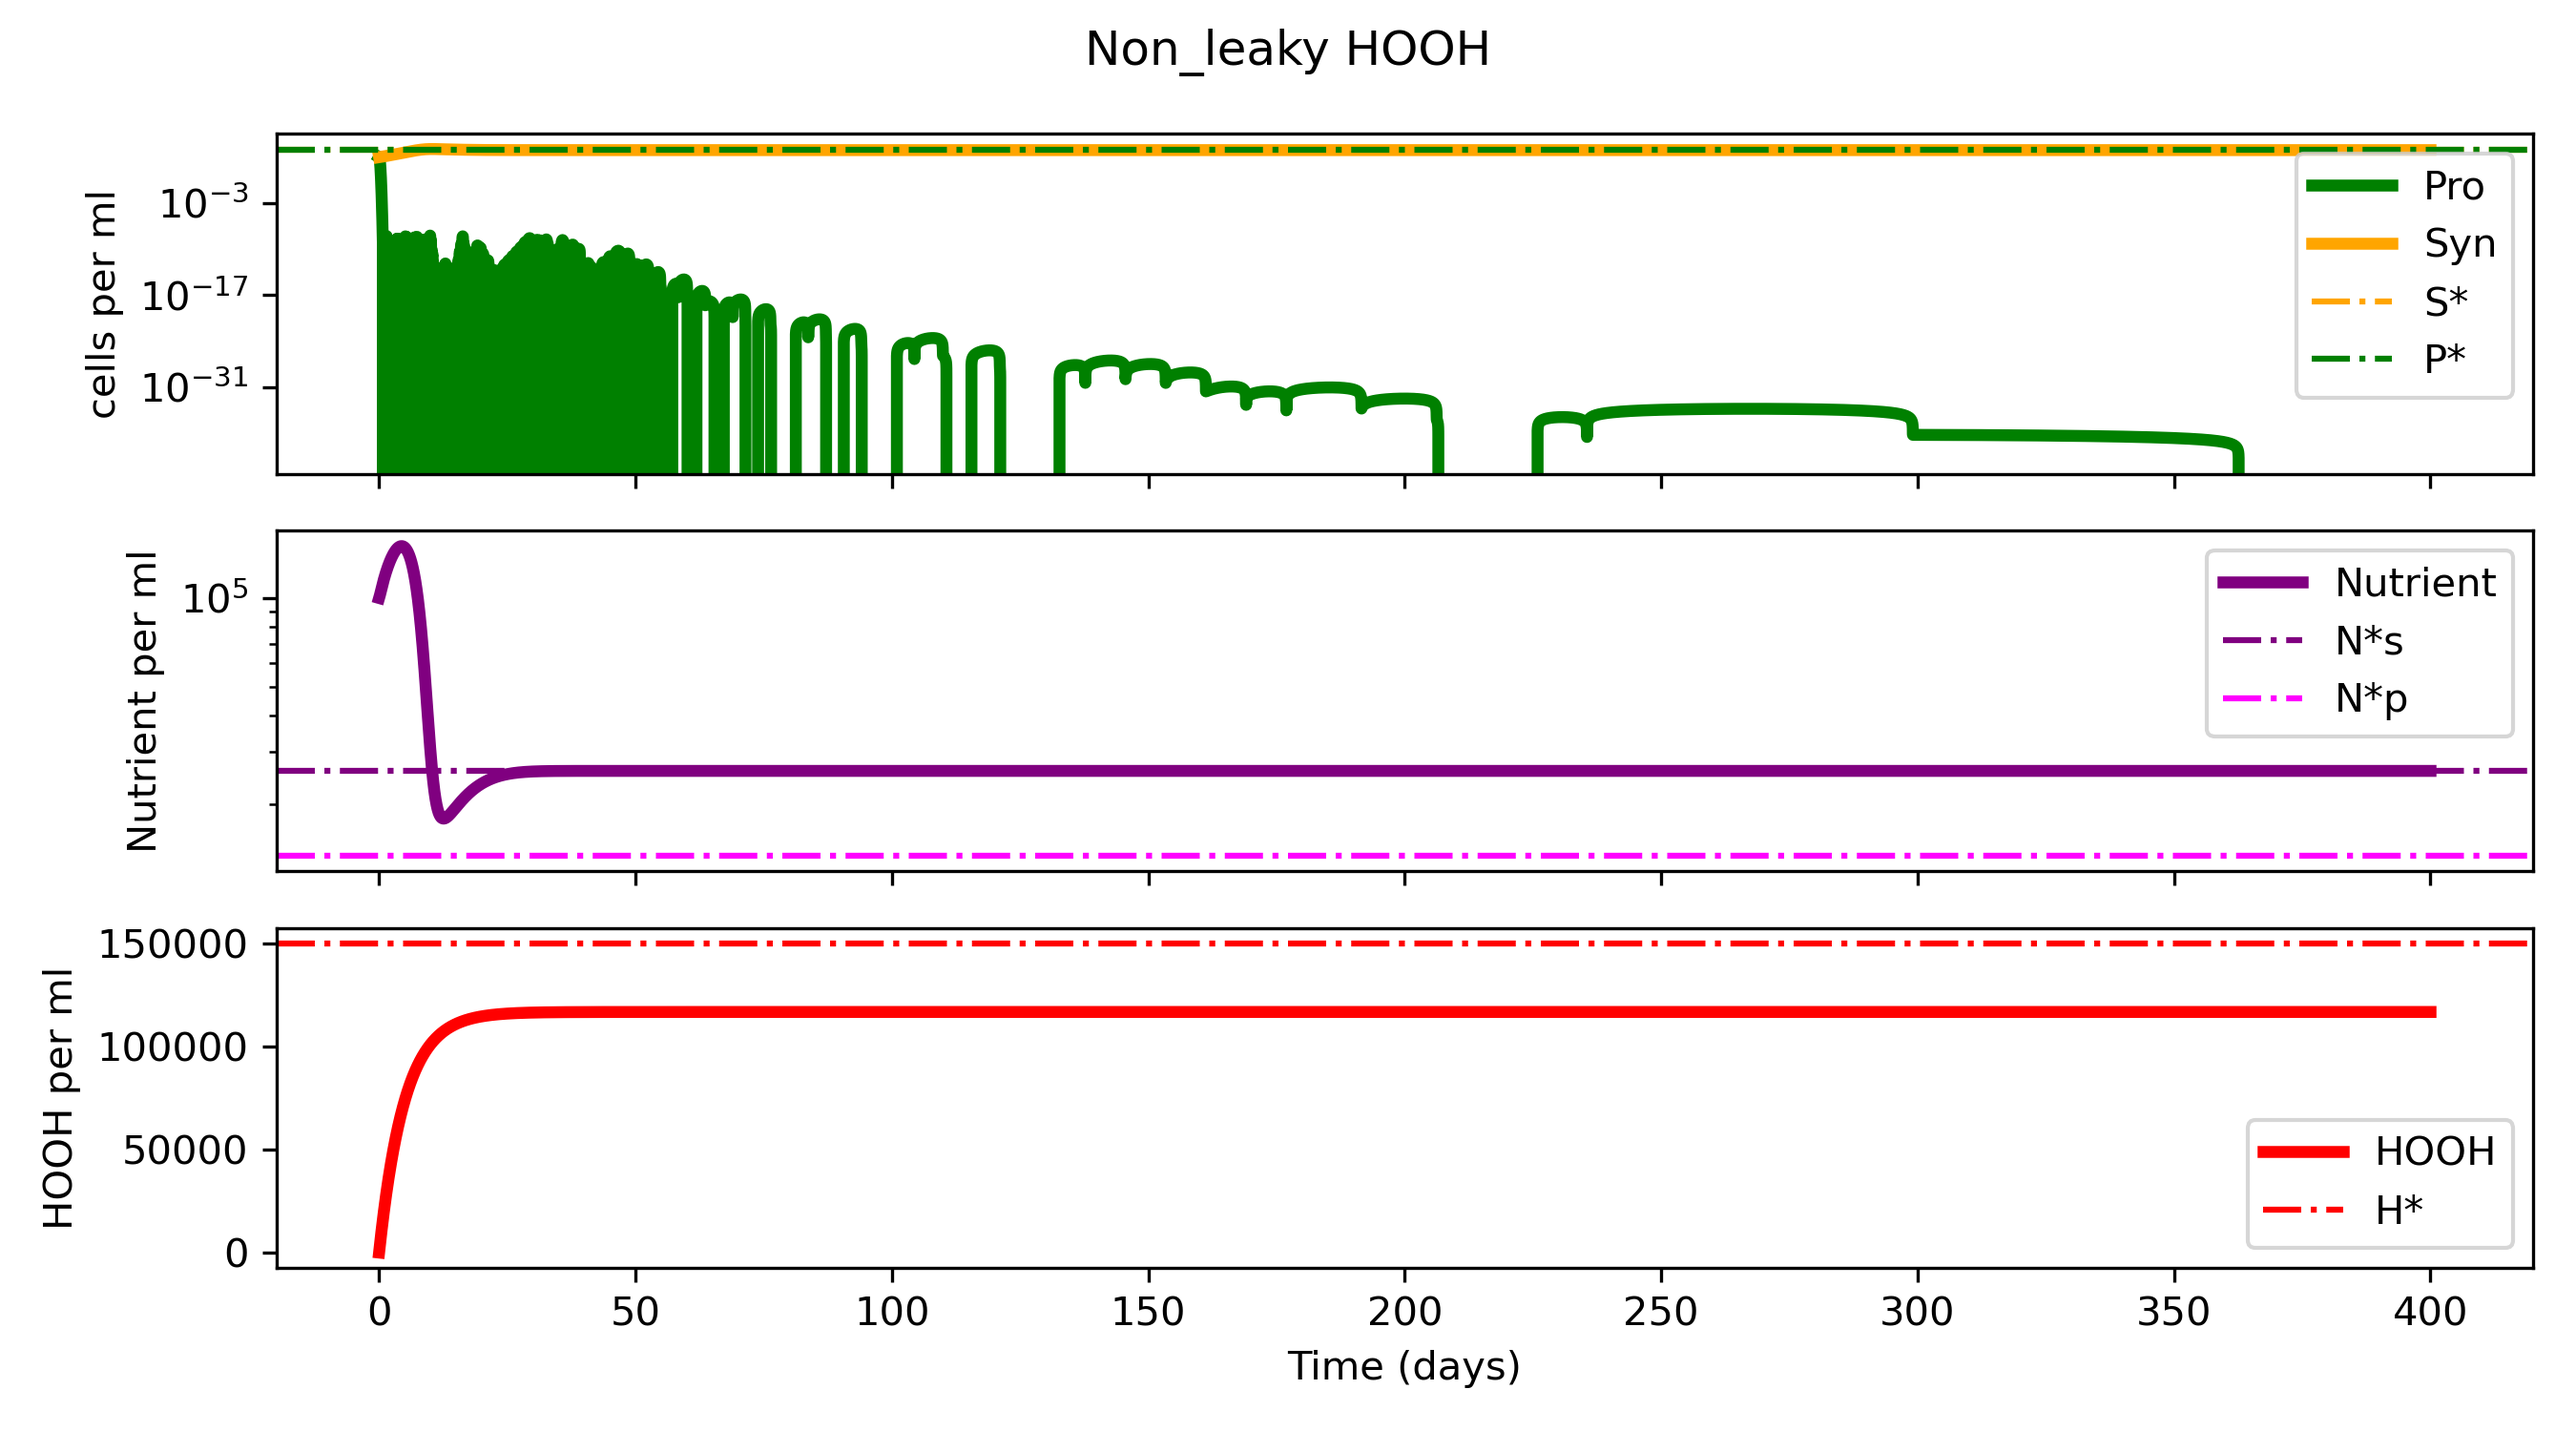
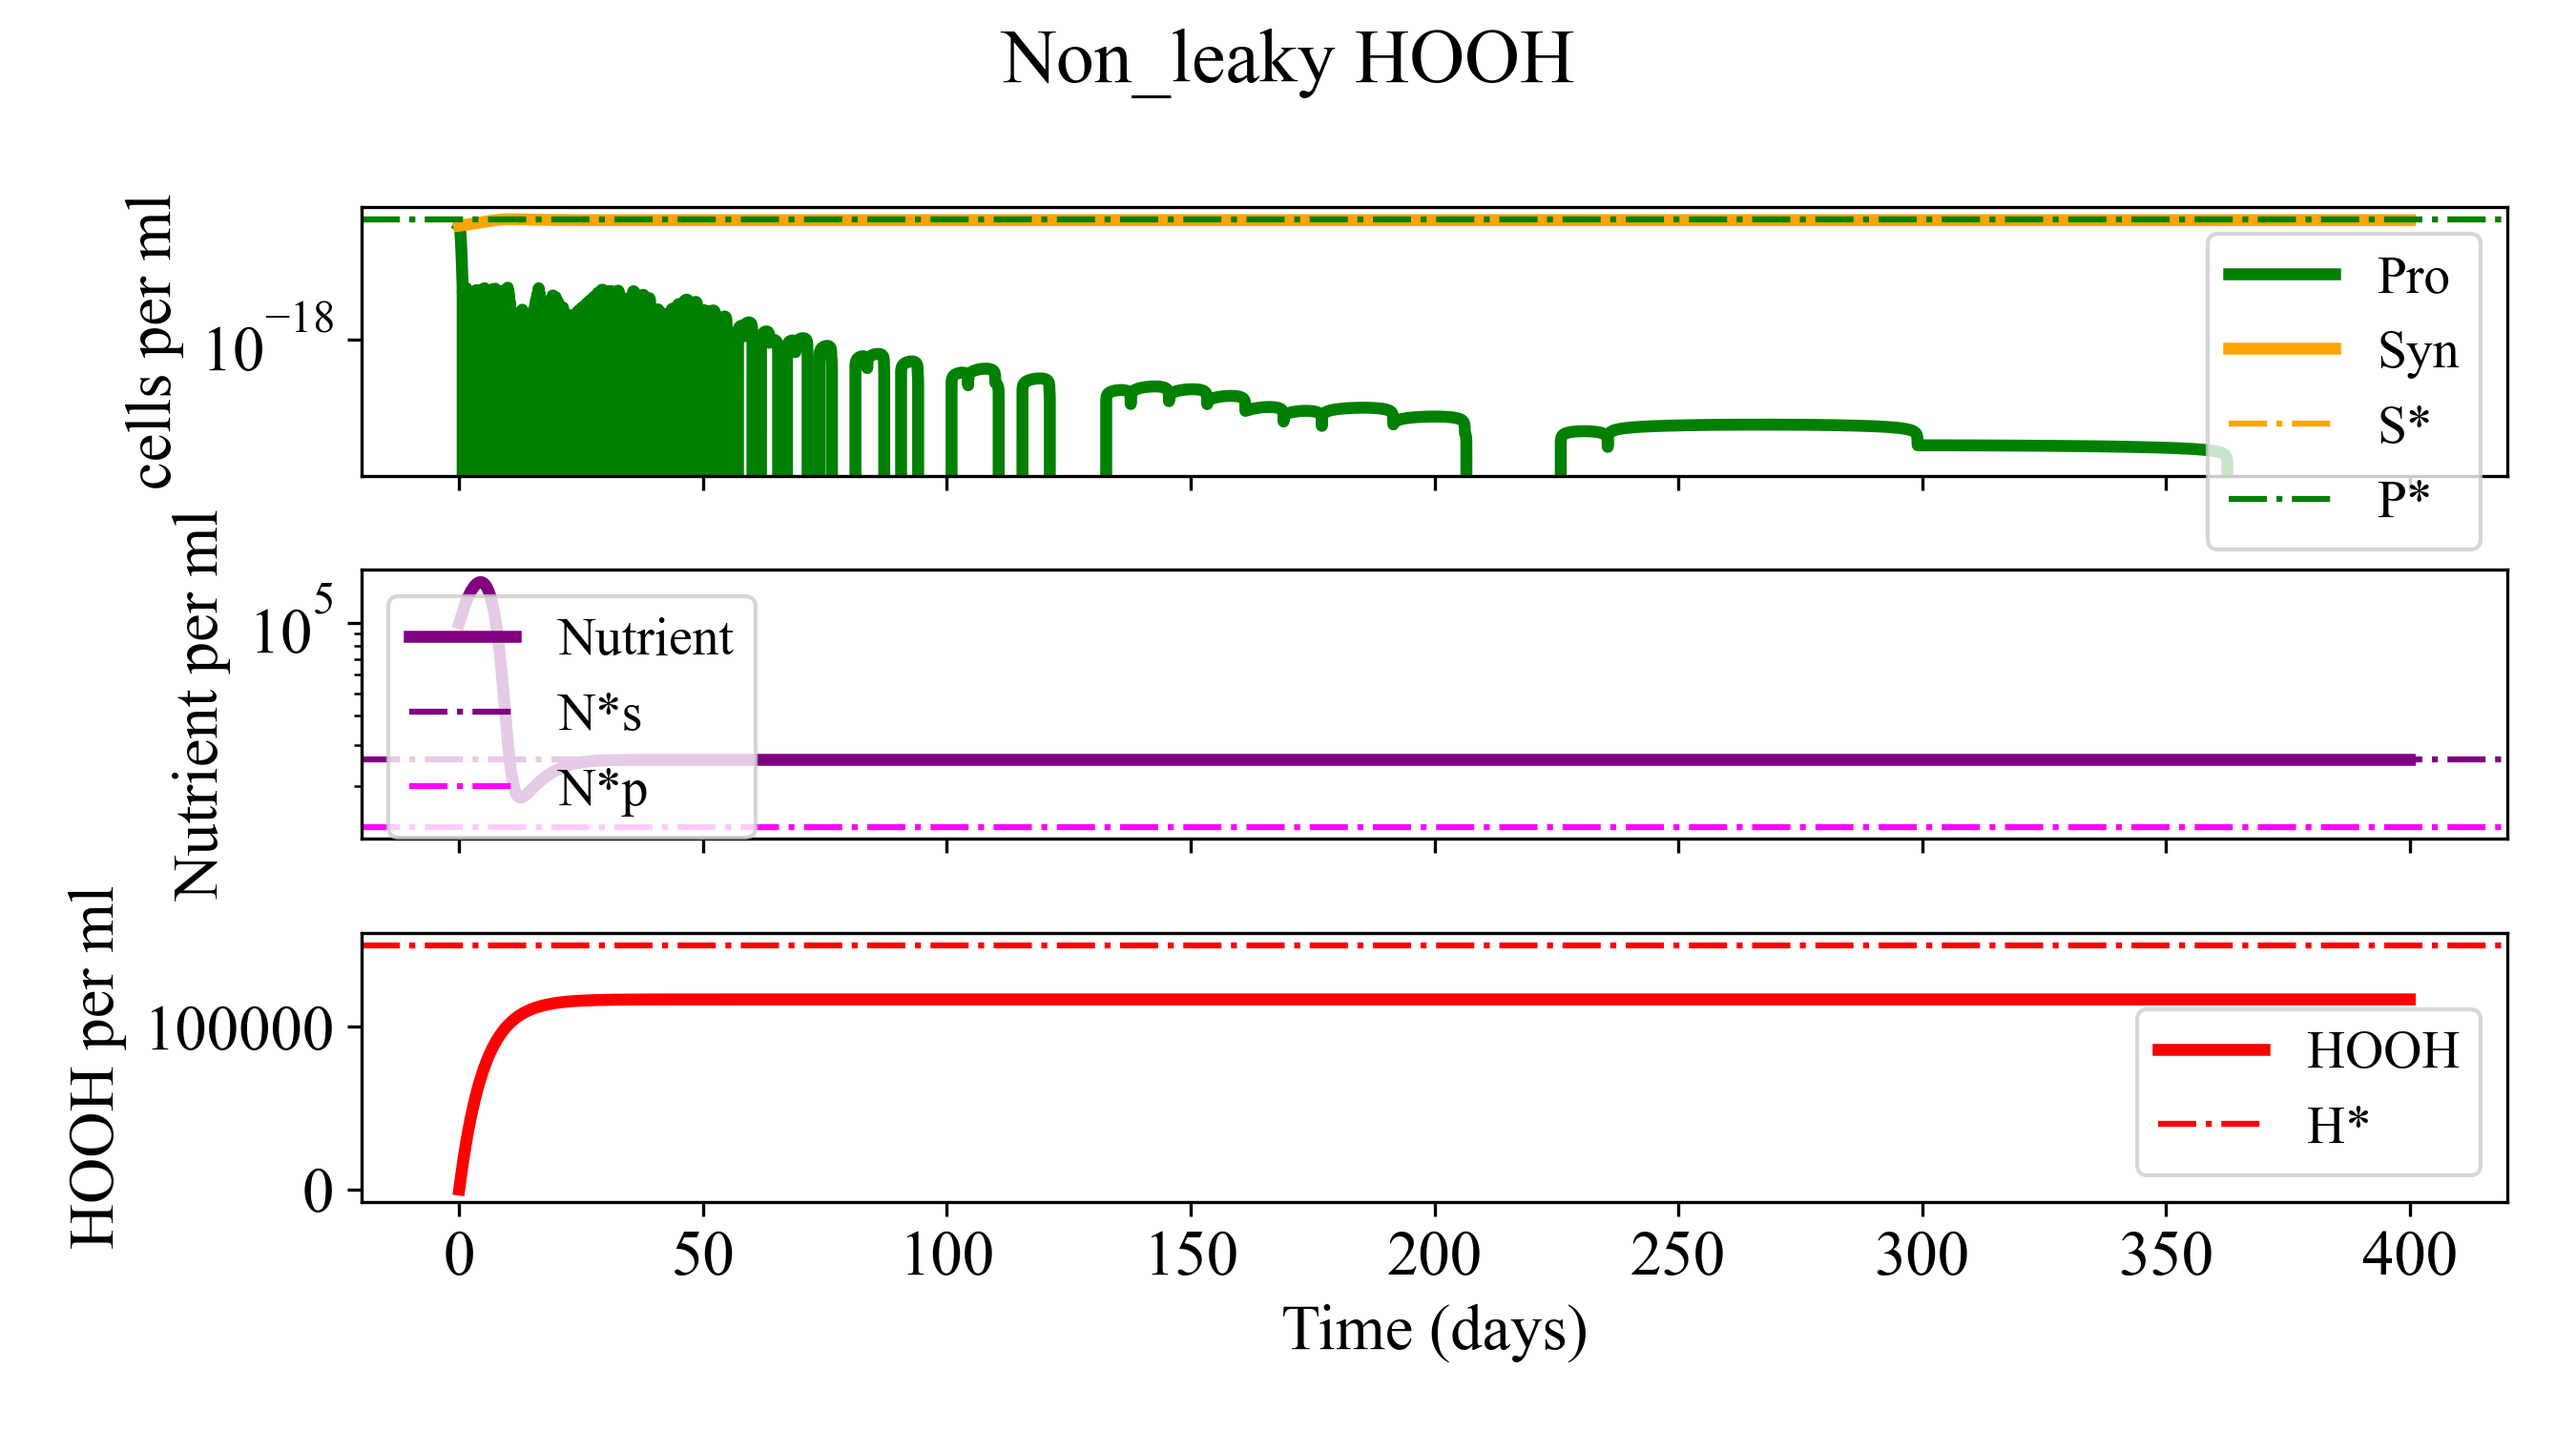
star loop

Changed region(s): [[0.0311, 0.092, 0.9956, 0.6133], [0.0, 0.6133, 0.9956, 0.9813], [0.3733, 0.0, 0.6222, 0.0613]]

diff --git a/src/kdam_phi_contour.py b/src/kdam_phi_contour.py
@@ -30,8 +30,8 @@ import sys
 step = 0.001
 ndays = 600
 mtimes = np.linspace(0,ndays,int(ndays/step))
-SNs = np.linspace(0, 1000, num = 20)
-Shs = np.linspace(0, 1000, num =20)
+SNs = np.linspace(0, 500, num = 20)
+Shs = np.linspace(0, 500, num =20)
 Z = np.zeros((int(SNs.shape[0]),int(Shs.shape[0])),float)
 
 
@@ -51,10 +51,6 @@ deltah = 0.002       #decay rate of HOOH via Syn
 phi = 1.10E-06    #0007  #detoxification-based decay of HOOH via Syn in this case
 rho =  0.002
 
-#params = [ksp,kss,k2,dp,ds,kdam,deltah,phi,rho]
-
-#phis([0.005,0.05,0.5])
-#kdams([])
 
 #empty arrays to be populated by odeint when calling leak function
 P = np.array([])
@@ -112,6 +108,28 @@ for (i,SN) in zip(range(SNs.shape[0]),SNs):
             Z[i,j] = 0
         if np.all([g <= 1e-3 for g in Psc[-200:]]) and np.all([h <= 1e-3 for h in Ssc[-200:]]) : 
             Z[i,j] = -1
+        #if ratio > 0 and ratio < 1:
+        #Coexist - make these the basae state and Pwin or Swin are special cases
+        Nstar = (kss*ds)/(k2-ds)
+        Hstar = (((k2*Nstar)/(Nstar + ksp))-(dp))*(1/kdam)
+        Sstar = (Sh - deltah*Hstar)/(phi*Hstar)
+        Pstar = ((SN-rho*Nstar)*(Nstar + ksp))/(k2*Nstar*Qnp)   
+        if ratio == 0:
+            #ratio at 0 Pro wins, or Sone wayyyyy smalller
+            #Pwin 
+            Nstarp = ((ksp*dp )+(ksp*kdam))/((k2*Qnp) - dp - kdam)
+            Pstarp = (SN - rho*Nstarp)*((Nstarp + ksp)/((k2*Nstarp)*Qnp))
+            Hstarp = Sh/(deltah+phi*Pstarp)  #do we need toassume H must be 0 for P to win?????
+        if ratio == 1:
+            #syn wins or aall dead
+        #Swin 
+            Nstars = (ds*kss)/((k2*Qns)-ds)
+            Sstars = (SN - rho*Nstars)*(((Nstars + kss)/(k2*Nstars*Qns)))
+            Hstars = Sh/(deltah)
+
+            
+        Nstarph = ((ksp*dp )+(ksp*kdam*Hstar))/((k2*Qnp) - dp - (kdam*Hstar))
+        vHline = ((deltah)/(Pstar*kdam)*((Nstarp+ksp)/(k2*Nstarp*Pstar*Qnp)+(dp*Pstar)))
         #elif Z[i,j] > 10:
             #print(i,j)
             #print(Ssc[-1],Psc[-1])
@@ -153,39 +171,9 @@ ax3.semilogy()
 
 
 
-#plt.show()
-
-'''
-##########################################################
-
-# Calculated analytical solutions at equilibrium
-
-##########################################################
-
-
-###### coesistance equilibrium (star equations ) ###########
-
-#Coexist
-Nstar = (kss*ds)/(k2-ds)
-Hstar = (((k2*Nstar)/(Nstar + ksp))-(dp))*(1/kdam)
-Sstar = (Sh - deltah*Hstar)/(phi*Hstar)
-Pstar = ((SN-rho*Nstar)*(Nstar + ksp))/(k2*Nstar*Qnp)
 
 
 
-#Pwin 
-Nstarp = ((ksp*dp )+(ksp*kdam))/((k2*Qnp) - dp - kdam)
-Pstarp = (SN - rho*Nstarp)*((Nstarp + ksp)/((k2*Nstarp)*Qnp))
-Hstarp = Sh/(deltah+phi*Pstar)  #do we need toassume H must be 0 for P to win?????
-
-#Swin 
-Nstars = (ds*kss)/((k2*Qns)-ds)
-Sstars = (SN - rho*Nstars)*(((Nstars + kss)/(k2*Nstars*Qns)))
-Hstars = Sh/(deltah)
-
-
-Nstarph = ((ksp*dp )+(ksp*kdam*Hstar))/((k2*Qnp) - dp - (kdam*Hstar))
-vHline = ((deltah)/(Pstar*kdam)*((Nstarp+ksp)/(k2*Nstarp*Pstar*Qnp)+(dp*Pstar)))
 
 
 
@@ -227,7 +215,7 @@ ax1.legend(loc = 'best')
 ax2.legend(loc = 'best')
 ax3.legend(loc = 'best')
 
-'''
+
 #######################################
 # Graphing Cotour plots from 
 ######################################

diff --git a/src/P_S_mod_comp.py b/src/P_S_mod_comp.py
@@ -37,7 +37,7 @@ from scipy.integrate import odeint
 step = 0.001
 ndays = 1000
 mtimes = np.linspace(0,ndays,int(ndays/step))
-SNs = np.linspace(0, 3000, num = 15)
+SNs = np.linspace(0, 300, num = 15)
 Shs = np.linspace(0, 3000, num =15)
 Z = np.zeros((int(SNs.shape[0]),int(Shs.shape[0])),float)
 
